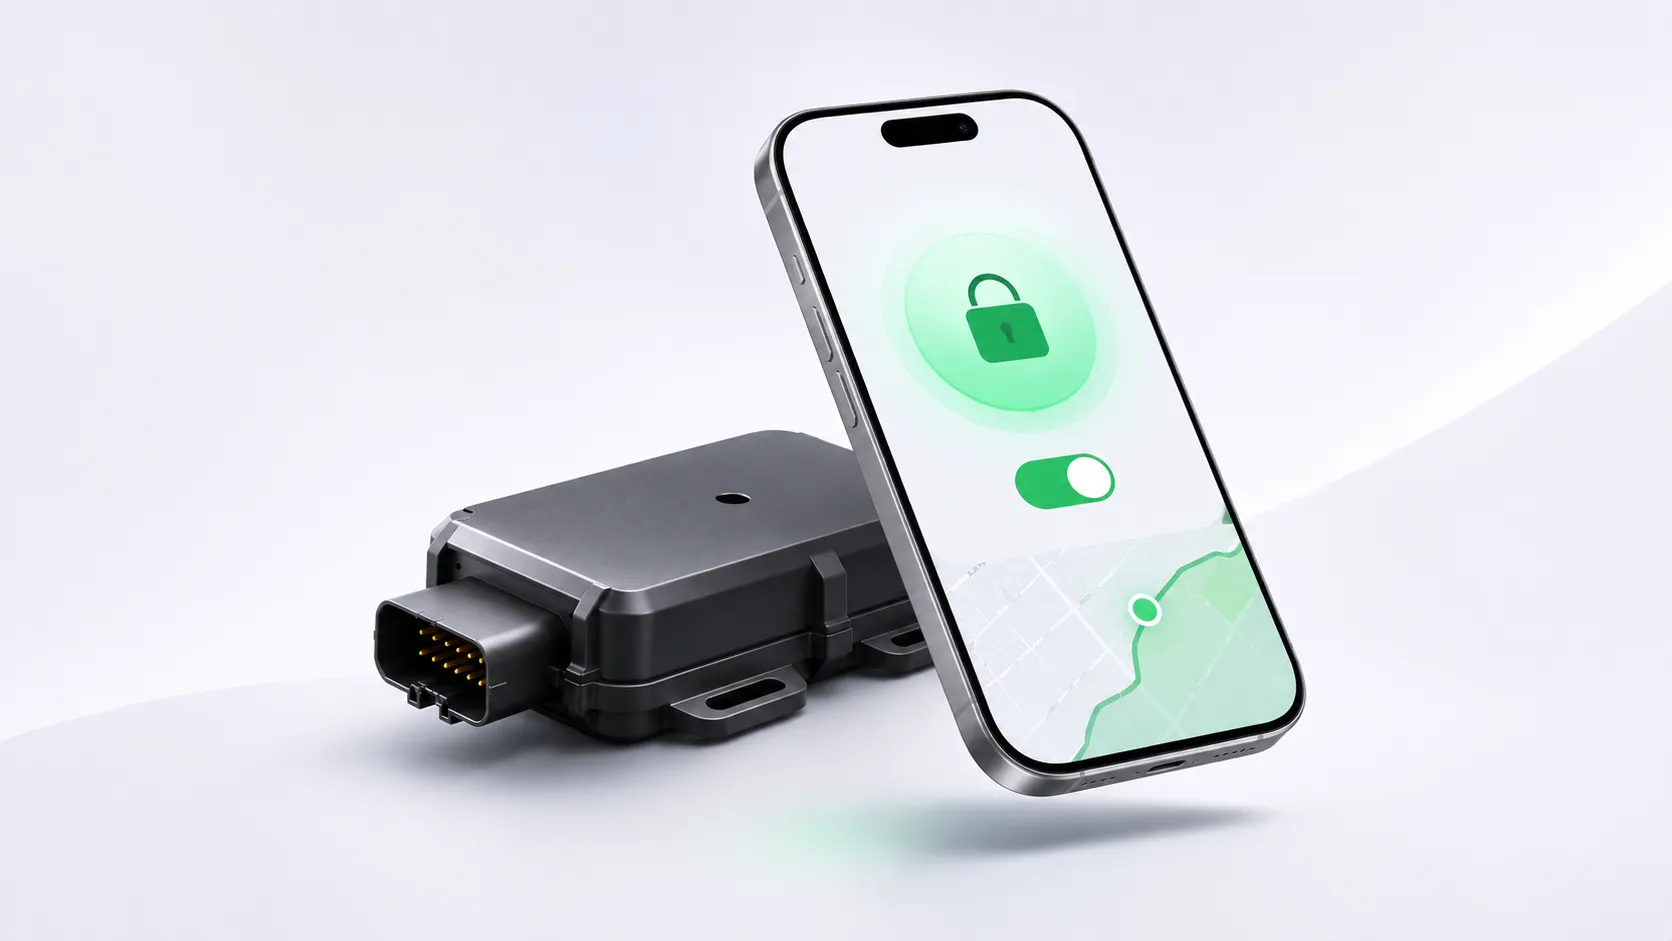
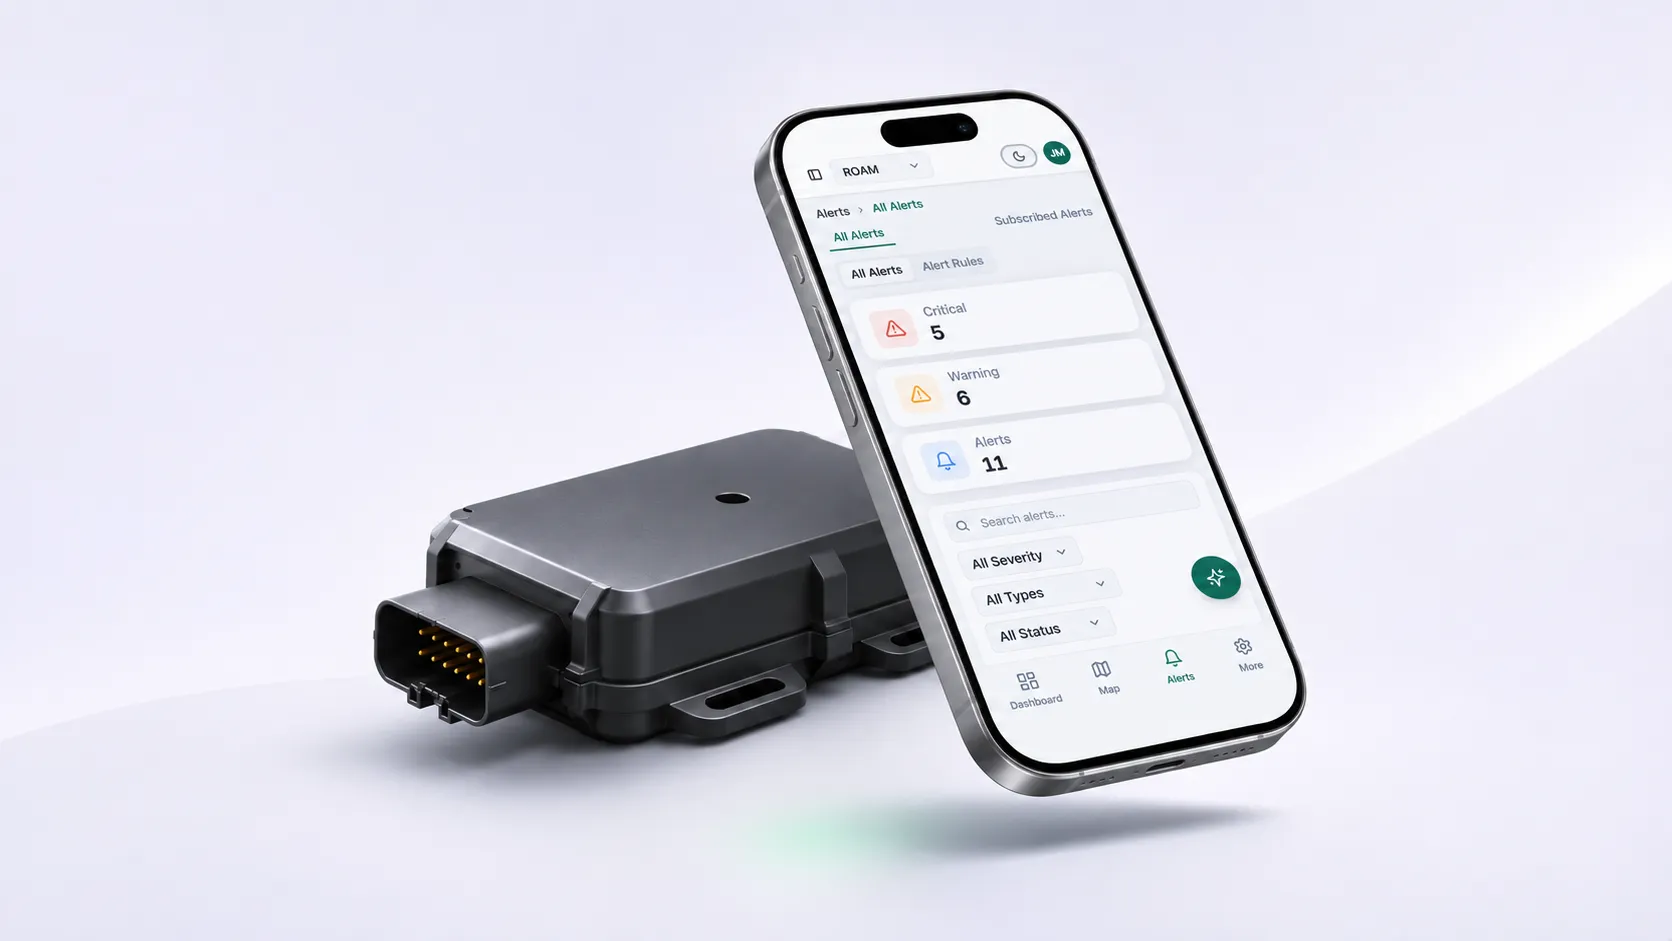
How it works: new See (live map laptop) and Act (alerts on phone) images
Claude-Session: https://claude.ai/code/session_019hg5JKm3Ajc1VUuZ1vD315

diff --git a/index.html b/index.html
@@ -1067,11 +1067,11 @@ p,h1,h2,h3,ul{margin:0}
         </article>
         <article class="hw-tile" style="--i:1">
           <div class="hw-text"><span class="hw-n">02</span><h3 class="hw-t" data-k="how.2.t" data-l="Step 2 title">See.</h3><p class="hw-d" data-k="how.2.d" data-l="Step 2 text">Every vehicle and every battery, live on one map, on web and mobile.</p></div>
-          <div class="step-pic hw-pic has-media" data-slot="how2" data-slot-l="Step 2 image" data-default-media="images/how-see.webp"><canvas data-seed="3242" aria-hidden="true"></canvas><picture class="default-pic"><img class="photo" src="images/how-see.webp?v=4" alt="A laptop showing the Canopy live map, with vehicle pins and a short list of vehicles" width="1672" height="941" loading="lazy"></picture></div>
+          <div class="step-pic hw-pic has-media" data-slot="how2" data-slot-l="Step 2 image" data-default-media="images/how-see.webp"><canvas data-seed="3242" aria-hidden="true"></canvas><picture class="default-pic"><img class="photo" src="images/how-see.webp?v=5" alt="A laptop showing the Canopy live map on satellite view, with vehicle pins and a list of vehicles and their status" width="1672" height="941" loading="lazy"></picture></div>
         </article>
         <article class="hw-tile" style="--i:2">
           <div class="hw-text"><span class="hw-n">03</span><h3 class="hw-t" data-k="how.3.t" data-l="Step 3 title">Act.</h3><p class="hw-d" data-k="how.3.d" data-l="Step 3 text">Get alerts, ask questions in plain words, and stop a vehicle safely.</p></div>
-          <div class="step-pic hw-pic has-media" data-slot="how3" data-slot-l="Step 3 image" data-default-media="images/how-act.webp"><canvas data-seed="3363" aria-hidden="true"></canvas><picture class="default-pic"><img class="photo" src="images/how-act.webp?v=4" alt="The Explorer device beside a phone showing the Canopy lock control and a route on a map" width="1672" height="941" loading="lazy"></picture></div>
+          <div class="step-pic hw-pic has-media" data-slot="how3" data-slot-l="Step 3 image" data-default-media="images/how-act.webp"><canvas data-seed="3363" aria-hidden="true"></canvas><picture class="default-pic"><img class="photo" src="images/how-act.webp?v=5" alt="The Explorer device beside a phone showing Canopy alerts, sorted into critical, warning and general" width="1672" height="941" loading="lazy"></picture></div>
         </article>
     </div>
     <div class="wrap hw-nav">
